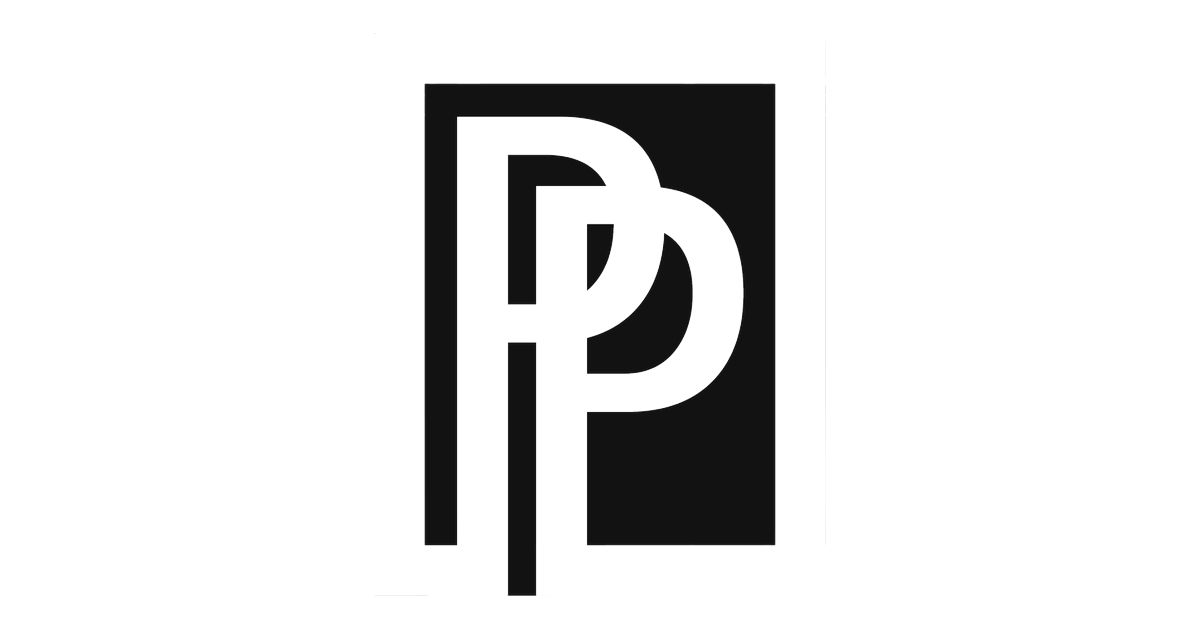
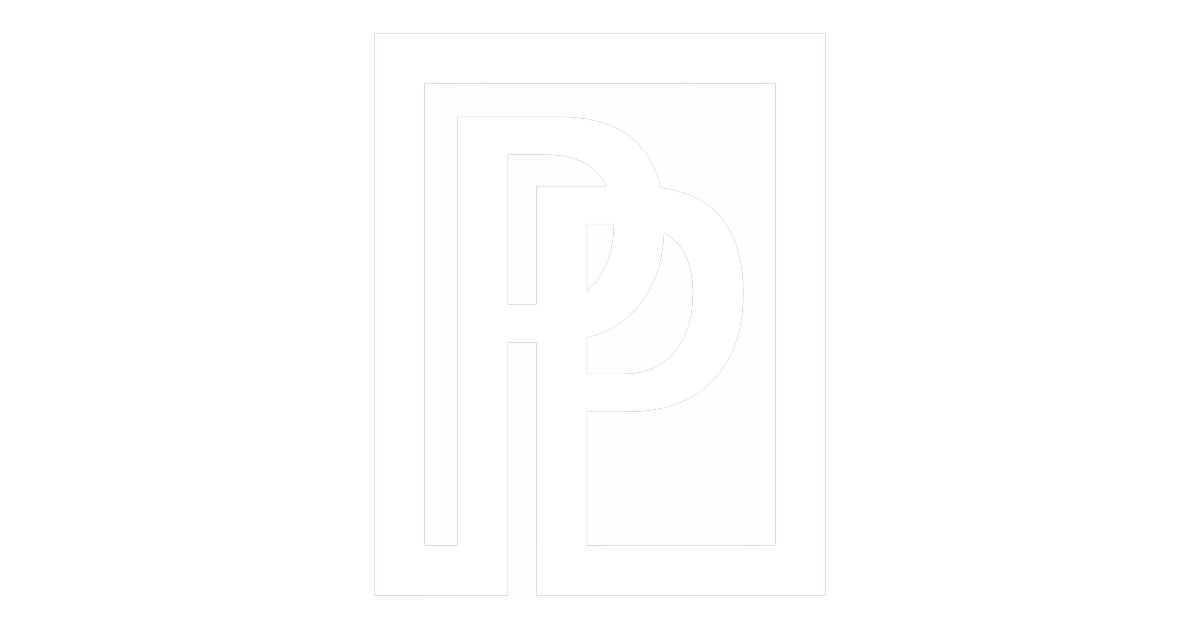
c

Changed region(s): [[0.3392, 0.1206, 0.6475, 0.9651]]

diff --git a/index.html b/index.html
@@ -69,7 +69,7 @@
 
     .menu-btn{display:none;align-items:center;justify-content:center;border:1px solid var(--line);background:#15151a;color:#eaeaf0;border-radius:10px;padding:8px 10px;font-size:.95rem;line-height:1;cursor:pointer}
 
-    /* Right-floating header logo (PP mark) */
+    /* Right-floating header logo (wordmark in top-right) */
     .logo-link{ display:flex; align-items:center; }
     .logo-nav{ height:72px; width:auto; display:block; object-fit:contain; background:transparent; border:0; box-shadow:none; padding:0; }
 
@@ -151,7 +151,7 @@
   <header class="header">
     <div class="container h-inner">
       <div class="left">
-        <!-- Navbar brand: text 'Prime Paint SRQ' -->
+        <!-- Navbar brand + links (unchanged) -->
         <a class="brand" href="#top">Prime Paint SRQ</a>
         <button class="menu-btn" aria-controls="primary-nav" aria-expanded="false">Menu</button>
         <nav id="primary-nav" class="mainnav" aria-label="Primary">
@@ -162,14 +162,14 @@
           <a href="#contact">Contact</a>
         </nav>
       </div>
-      <!-- Right logo: PP mark -->
+      <!-- Top-right logo: your PRIME PAINT wordmark -->
       <a href="#top" class="logo-link" aria-label="Prime Paint SRQ home">
-        <img class="logo-nav" src="assets/prime-paint-mark.png" alt="PRIME PAINT monogram logo">
+        <img class="logo-nav" src="assets/prime-paint-logo.png" alt="PRIME PAINT logo">
       </a>
     </div>
   </header>
 
-  <!-- Hero (PP left, text right; single CTA) -->
+  <!-- Hero (PP monogram left, text right; single CTA) -->
   <section class="hero">
     <div class="shade"></div>
     <div class="container hero-inner">
